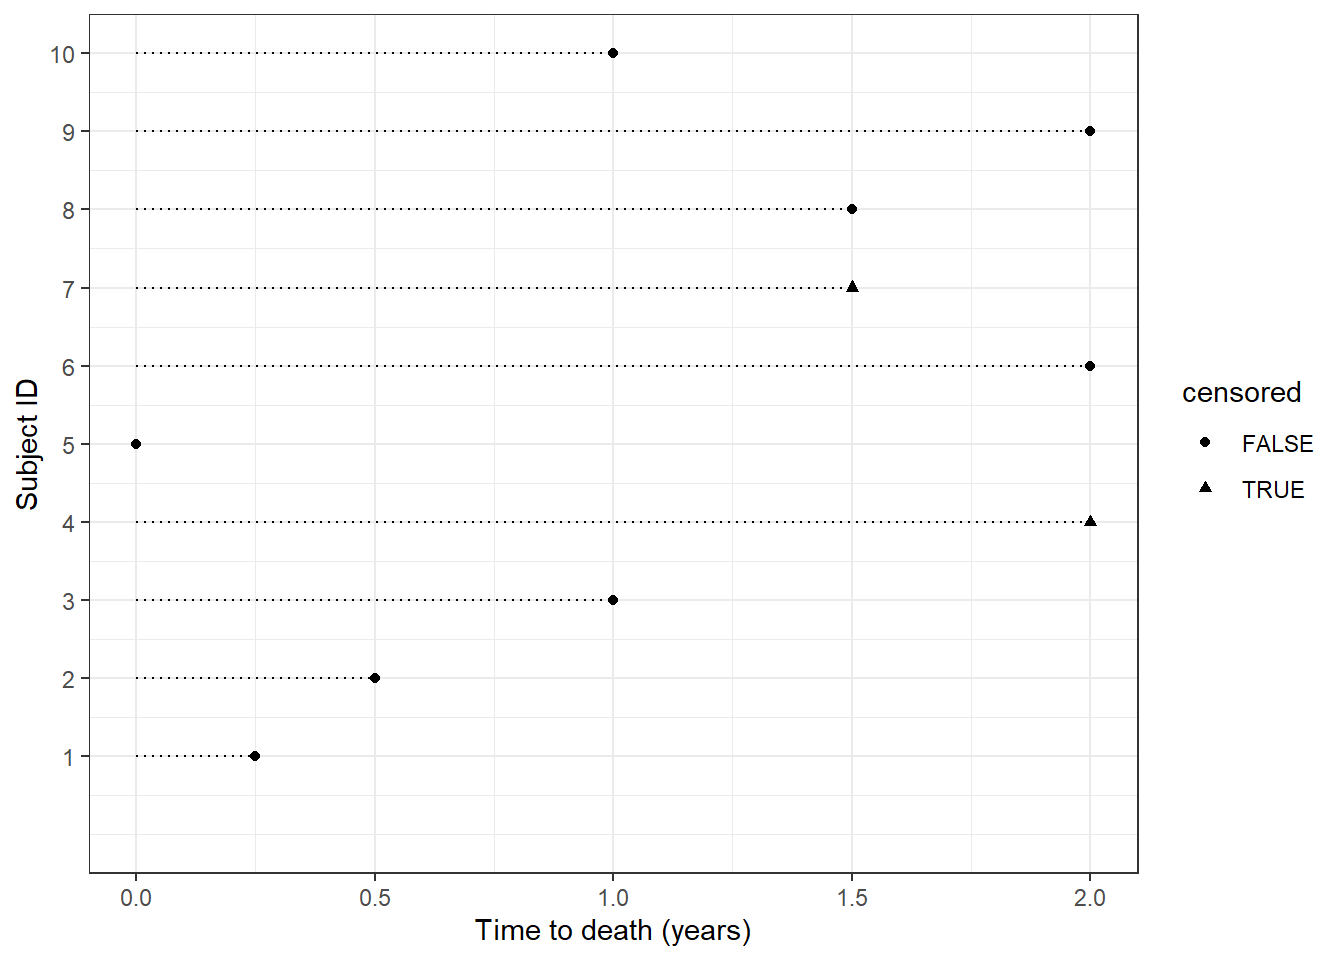
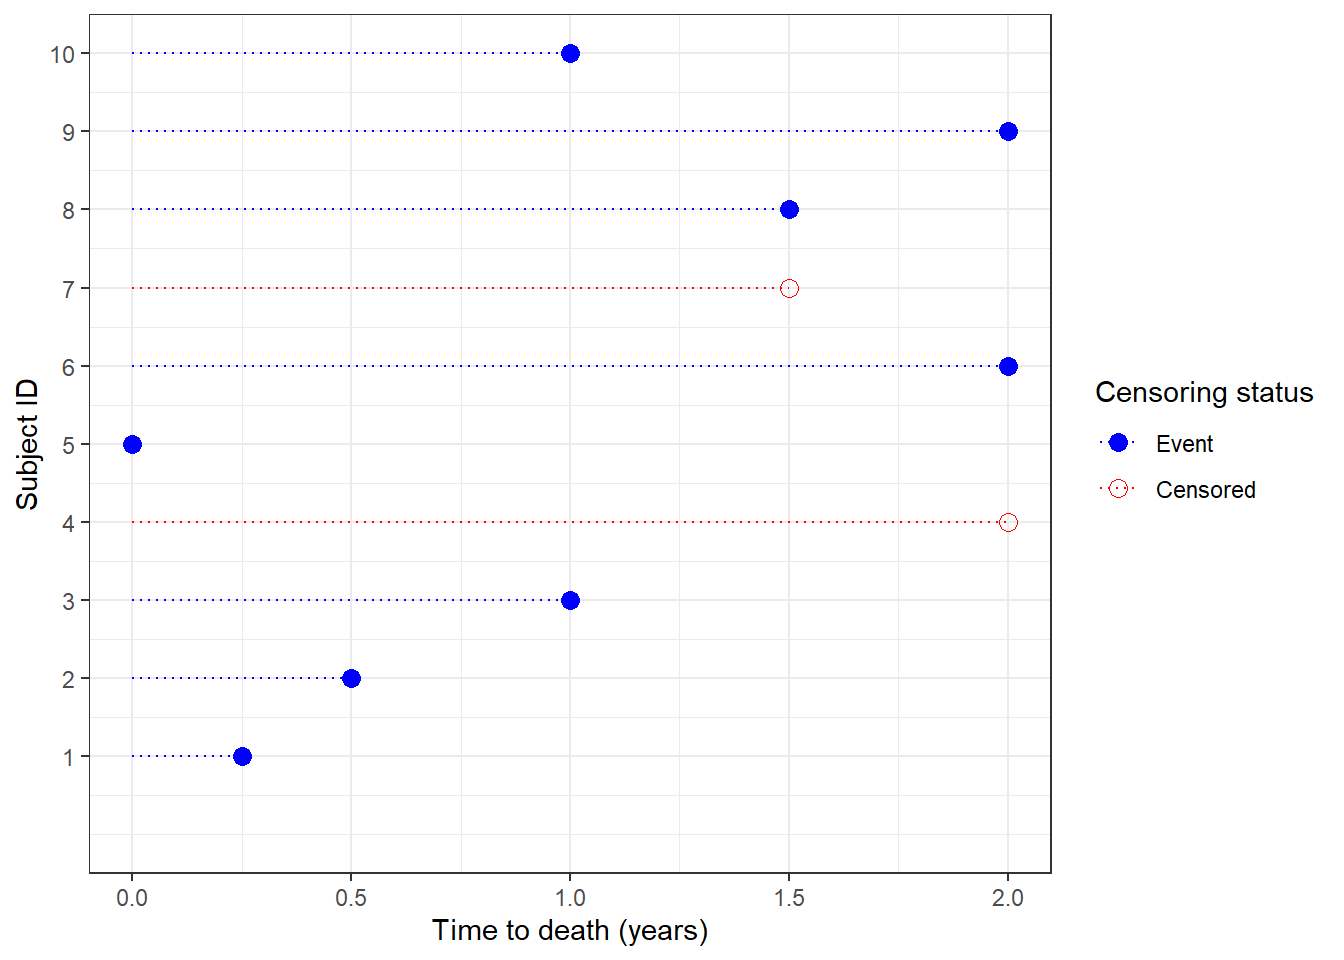
updated KM

diff --git a/_site/Lab6.html b/_site/Lab6.html
@@ -2307,7 +2307,65 @@ Ignoring unknown labels:
 <table class="table caption-top table-sm table-striped small" data-quarto-postprocess="true">
 <thead>
 <tr class="header">
-<th style="text-align: right;" data-quarto-table-cell-role="th">Time</th>
+<th style="text-align: left;" data-quarto-table-cell-role="th">Time</th>
+<th style="text-align: left;" data-quarto-table-cell-role="th">Risk.set</th>
+<th style="text-align: left;" data-quarto-table-cell-role="th">N.of.events</th>
+<th style="text-align: left;" data-quarto-table-cell-role="th">Interval.specific.event.rate</th>
+</tr>
+</thead>
+<tbody>
+<tr class="odd">
+<td style="text-align: left;">(0,0.25]</td>
+<td style="text-align: left;">?</td>
+<td style="text-align: left;">?</td>
+<td style="text-align: left;">?</td>
+</tr>
+<tr class="even">
+<td style="text-align: left;">(0.25,0.5]</td>
+<td style="text-align: left;">?</td>
+<td style="text-align: left;">?</td>
+<td style="text-align: left;">?</td>
+</tr>
+<tr class="odd">
+<td style="text-align: left;">(0.5,1.0]</td>
+<td style="text-align: left;">?</td>
+<td style="text-align: left;">?</td>
+<td style="text-align: left;">?</td>
+</tr>
+<tr class="even">
+<td style="text-align: left;">(1.0,1.5]</td>
+<td style="text-align: left;">?</td>
+<td style="text-align: left;">?</td>
+<td style="text-align: left;">?</td>
+</tr>
+<tr class="odd">
+<td style="text-align: left;">(1.5,2.0]</td>
+<td style="text-align: left;">?</td>
+<td style="text-align: left;">?</td>
+<td style="text-align: left;">?</td>
+</tr>
+</tbody>
+</table>
+</div>
+</div>
+<div class="callout callout-style-default callout-tip callout-titled">
+<div class="callout-header d-flex align-content-center" data-bs-toggle="collapse" data-bs-target=".callout-2-contents" aria-controls="callout-2" aria-expanded="false" aria-label="Toggle callout">
+<div class="callout-icon-container">
+<i class="callout-icon"></i>
+</div>
+<div class="callout-title-container flex-fill">
+Q: Fill in the blanks.
+</div>
+<div class="callout-btn-toggle d-inline-block border-0 py-1 ps-1 pe-0 float-end"><i class="callout-toggle"></i></div>
+</div>
+<div id="callout-2" class="callout-2-contents callout-collapse collapse">
+<div class="callout-body-container callout-body">
+<div class="cell">
+<div class="cell-output-display">
+<table class="table caption-top table-sm table-striped small" data-quarto-postprocess="true">
+<thead>
+<tr class="header">
+<th style="text-align: left;" data-quarto-table-cell-role="th">Time</th>
 <th style="text-align: right;" data-quarto-table-cell-role="th">Risk.set</th>
 <th style="text-align: right;" data-quarto-table-cell-role="th">N.of.events</th>
 <th style="text-align: right;" data-quarto-table-cell-role="th">Interval.specific.event.rate</th>
@@ -2315,31 +2373,31 @@ Ignoring unknown labels:
 </thead>
 <tbody>
 <tr class="odd">
-<td style="text-align: right;">0.25</td>
+<td style="text-align: left;">(0,0.25]</td>
 <td style="text-align: right;">9</td>
 <td style="text-align: right;">1</td>
 <td style="text-align: right;">0.111</td>
 </tr>
 <tr class="even">
-<td style="text-align: right;">0.50</td>
+<td style="text-align: left;">(0.25,0.5]</td>
 <td style="text-align: right;">8</td>
 <td style="text-align: right;">1</td>
 <td style="text-align: right;">0.125</td>
 </tr>
 <tr class="odd">
-<td style="text-align: right;">1.00</td>
+<td style="text-align: left;">(0.5,1.0]</td>
 <td style="text-align: right;">7</td>
 <td style="text-align: right;">2</td>
 <td style="text-align: right;">0.286</td>
 </tr>
 <tr class="even">
-<td style="text-align: right;">1.50</td>
+<td style="text-align: left;">(1.0,1.5]</td>
 <td style="text-align: right;">5</td>
 <td style="text-align: right;">1</td>
 <td style="text-align: right;">0.200</td>
 </tr>
 <tr class="odd">
-<td style="text-align: right;">2.00</td>
+<td style="text-align: left;">(1.5,2.0]</td>
 <td style="text-align: right;">3</td>
 <td style="text-align: right;">2</td>
 <td style="text-align: right;">0.667</td>
@@ -2352,8 +2410,11 @@ Ignoring unknown labels:
 <div class="cell-output-display">
 <div>
 <figure class="figure">
-<p><img src="Lab6_files/figure-html/unnamed-chunk-5-1.png" class="img-fluid figure-img" width="672"></p>
+<p><img src="Lab6_files/figure-html/unnamed-chunk-6-1.png" class="img-fluid figure-img" width="672"></p>
 </figure>
+</div>
+</div>
+</div>
 </div>
 </div>
 </div>
@@ -2466,7 +2527,7 @@ Ignoring unknown labels:
 </table>
 </div>
 <div class="callout callout-style-default callout-tip callout-titled">
-<div class="callout-header d-flex align-content-center" data-bs-toggle="collapse" data-bs-target=".callout-2-contents" aria-controls="callout-2" aria-expanded="false" aria-label="Toggle callout">
+<div class="callout-header d-flex align-content-center" data-bs-toggle="collapse" data-bs-target=".callout-3-contents" aria-controls="callout-3" aria-expanded="false" aria-label="Toggle callout">
 <div class="callout-icon-container">
 <i class="callout-icon"></i>
 </div>
@@ -2475,7 +2536,7 @@ Q: We found that some patients received treatment at time 13 and died on the sam
 </div>
 <div class="callout-btn-toggle d-inline-block border-0 py-1 ps-1 pe-0 float-end"><i class="callout-toggle"></i></div>
 </div>
-<div id="callout-2" class="callout-2-contents callout-collapse collapse">
+<div id="callout-3" class="callout-3-contents callout-collapse collapse">
 <div class="callout-body-container callout-body">
 <p>Answer: Again, it depends.</p>
 <p>If the treatment began around 8 a.m. and the patients died around 11 p.m., they could be classified as “exposed” in the analysis (for example, by subtracting a small value from 13). However, if the treatment started around 1 p.m. and the patients died before that time, they should not be classified as “exposed”.</p>
@@ -2560,7 +2621,7 @@ Q: We found that some patients received treatment at time 13 and died on the sam
     }
       var localhostRegex = new RegExp(/^(?:http|https):\/\/localhost\:?[0-9]*\//);
       var mailtoRegex = new RegExp(/^mailto:/);
-        var filterRegex = new RegExp("https:\/\/AkiShiroshita\.github\.io\/EPID813-2025--Lab\/");
+        var filterRegex = new RegExp('/' + window.location.host + '/');
       var isInternal = (href) => {
           return filterRegex.test(href) || localhostRegex.test(href) || mailtoRegex.test(href);
       }
